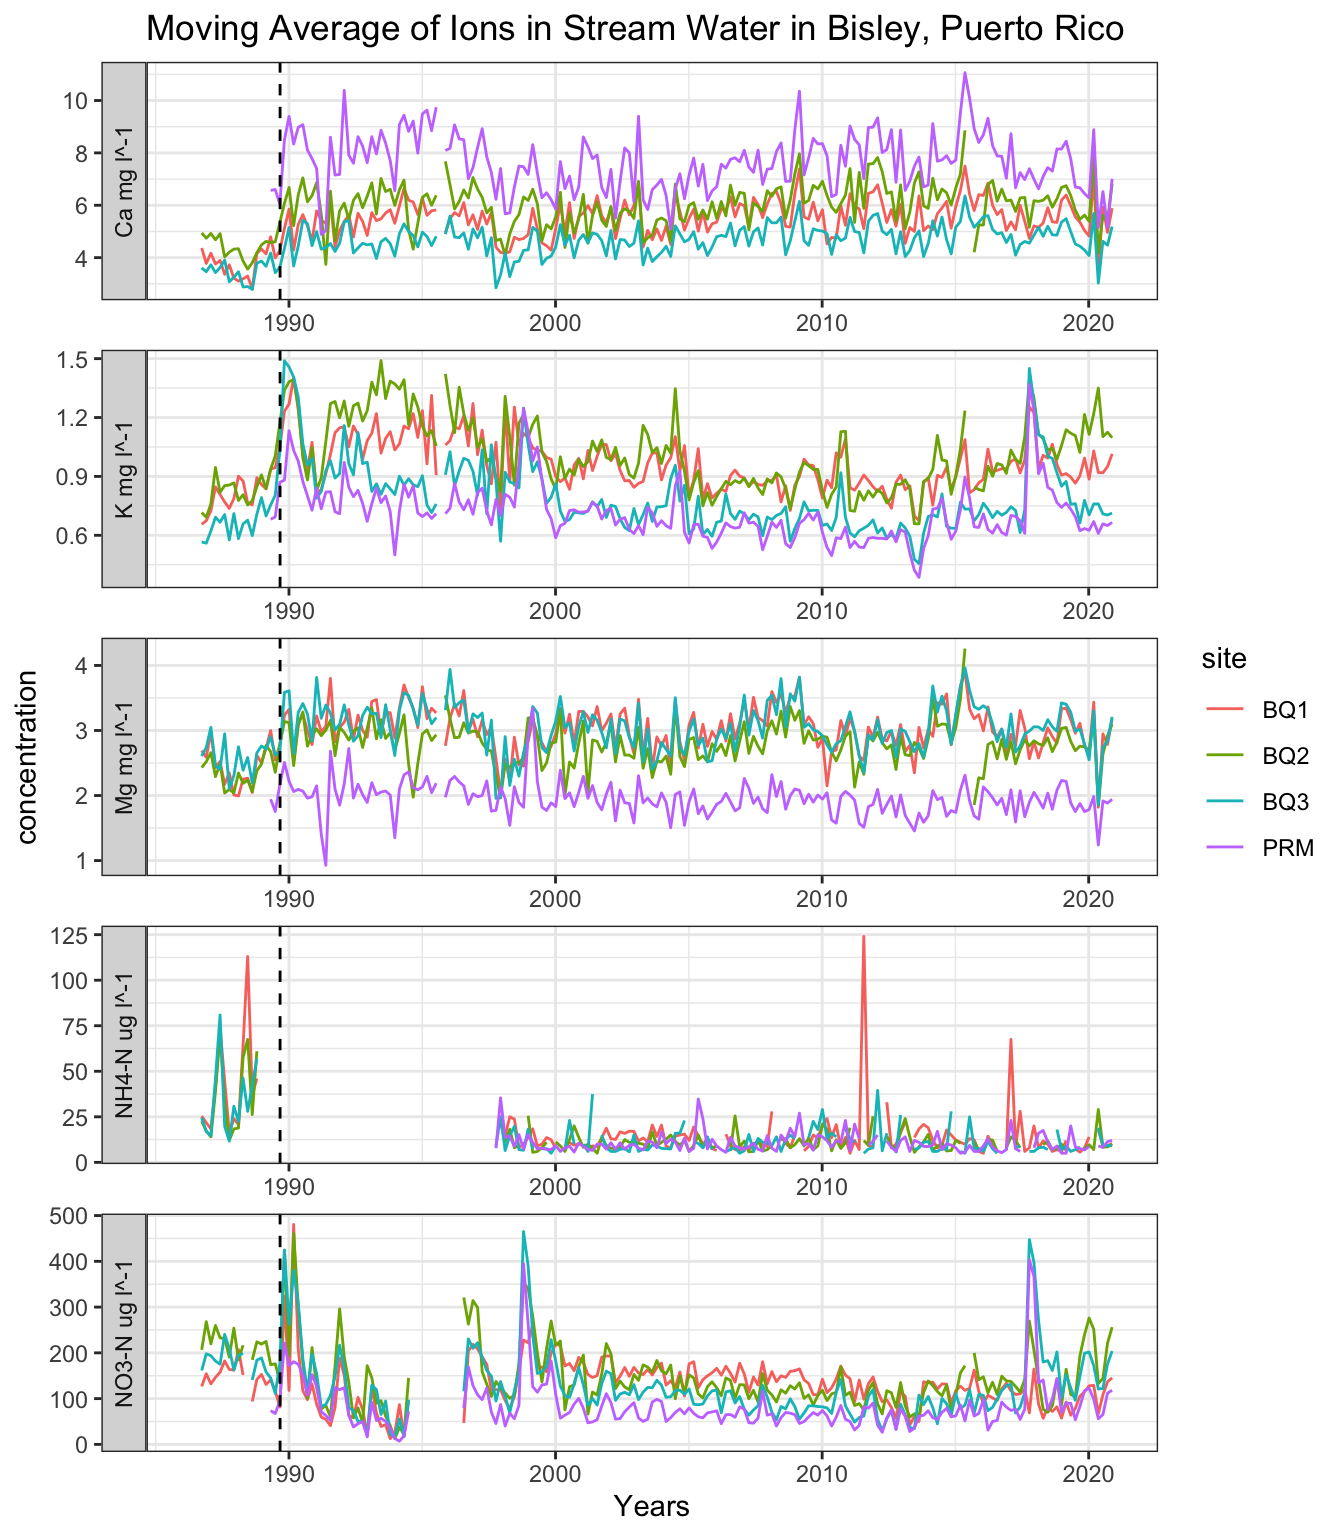
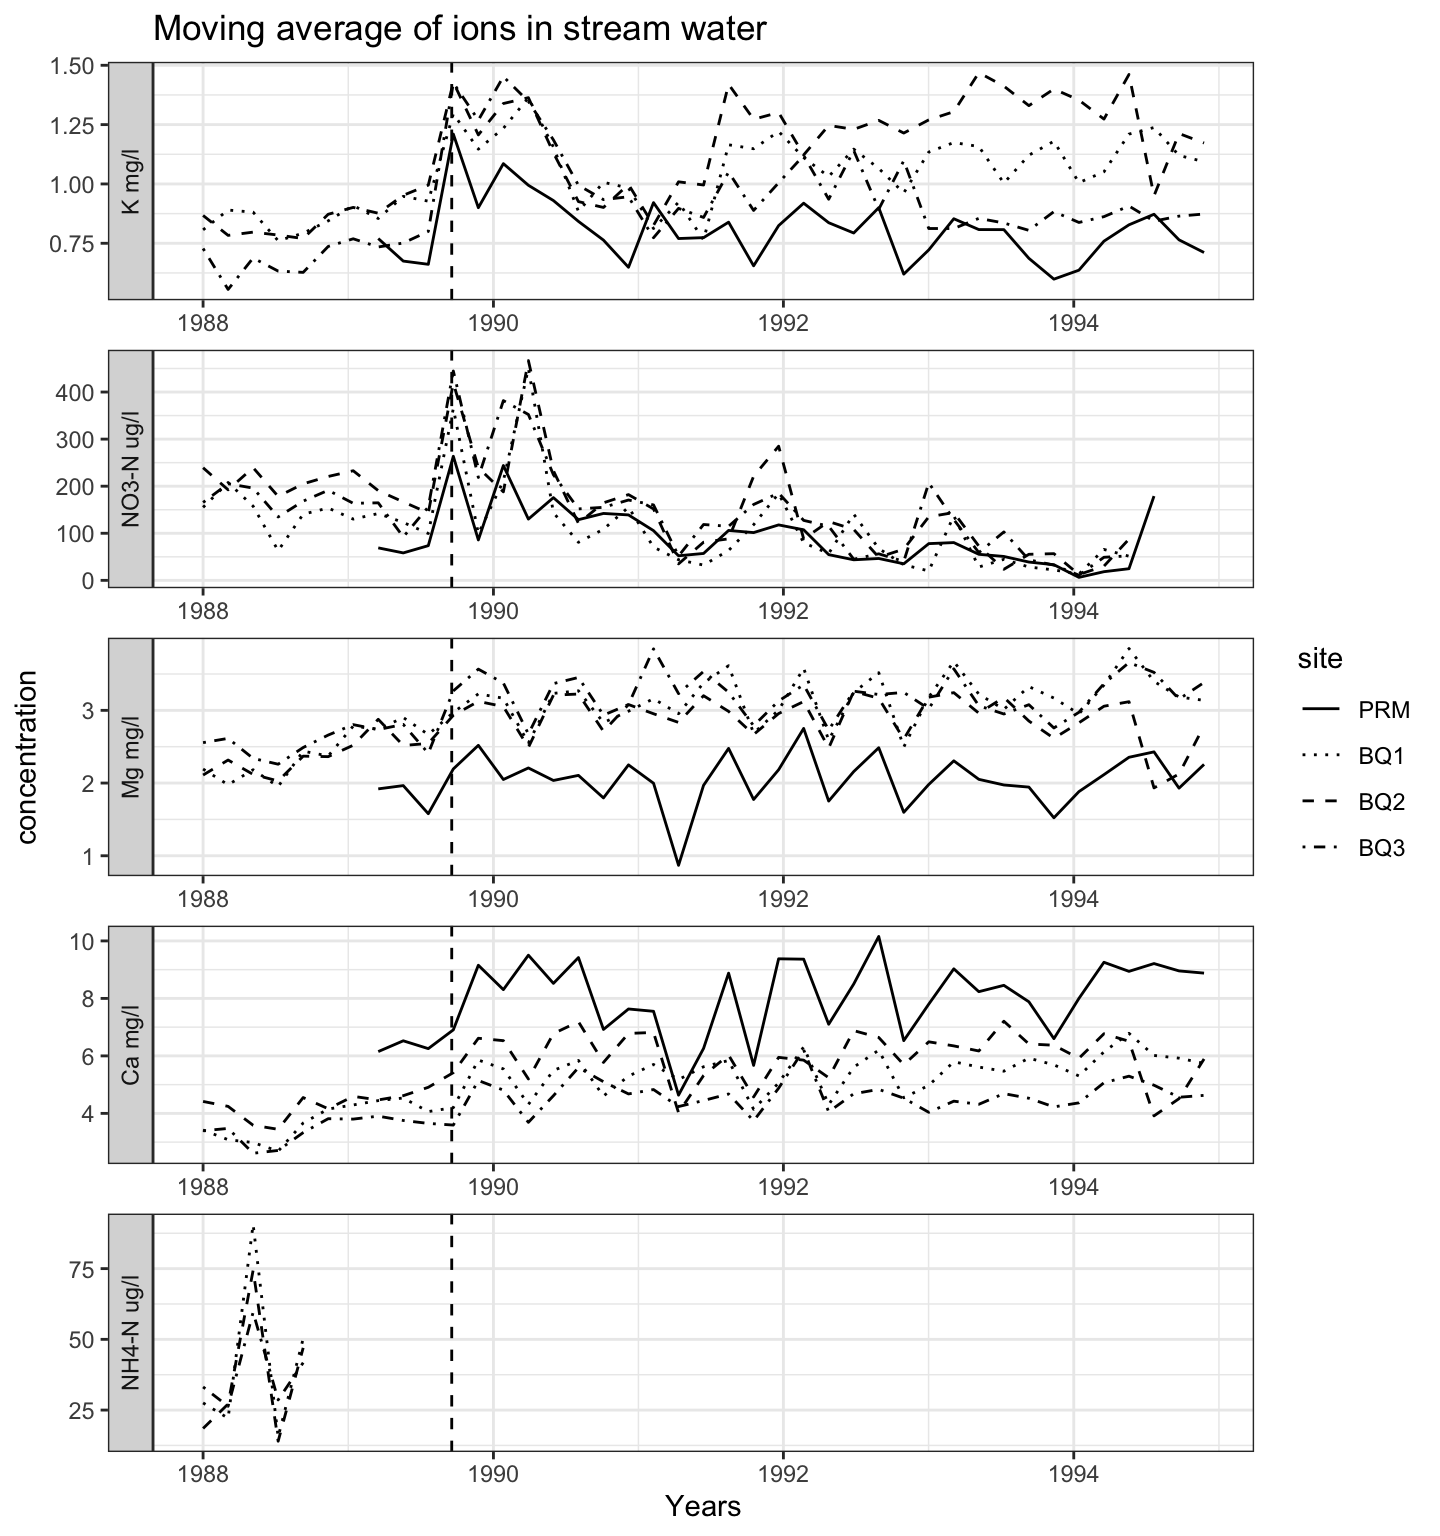
worked on figure aesthetics, fixes #7

diff --git a/docs/paper.html b/docs/paper.html
@@ -26,6 +26,41 @@ ul.task-list li input[type="checkbox"] {
   margin: 0 0.8em 0.2em -1em; /* quarto-specific, see https://github.com/quarto-dev/quarto-cli/issues/4556 */ 
   vertical-align: middle;
 }
+/* CSS for syntax highlighting */
+html { -webkit-text-size-adjust: 100%; }
+pre > code.sourceCode { white-space: pre; position: relative; }
+pre > code.sourceCode > span { display: inline-block; line-height: 1.25; }
+pre > code.sourceCode > span:empty { height: 1.2em; }
+.sourceCode { overflow: visible; }
+code.sourceCode > span { color: inherit; text-decoration: inherit; }
+div.sourceCode { margin: 1em 0; }
+pre.sourceCode { margin: 0; }
+@media screen {
+div.sourceCode { overflow: auto; }
+}
+@media print {
+pre > code.sourceCode { white-space: pre-wrap; }
+pre > code.sourceCode > span { text-indent: -5em; padding-left: 5em; }
+}
+pre.numberSource code
+  { counter-reset: source-line 0; }
+pre.numberSource code > span
+  { position: relative; left: -4em; counter-increment: source-line; }
+pre.numberSource code > span > a:first-child::before
+  { content: counter(source-line);
+    position: relative; left: -1em; text-align: right; vertical-align: baseline;
+    border: none; display: inline-block;
+    -webkit-touch-callout: none; -webkit-user-select: none;
+    -khtml-user-select: none; -moz-user-select: none;
+    -ms-user-select: none; user-select: none;
+    padding: 0 4px; width: 4em;
+  }
+pre.numberSource { margin-left: 3em;  padding-left: 4px; }
+div.sourceCode
+  {   }
+@media screen {
+pre > code.sourceCode > span > a:first-child::before { text-decoration: underline; }
+}
 </style>
 
 
@@ -57,48 +92,82 @@ ul.task-list li input[type="checkbox"] {
 <h1>Hurricane Hugo (1989) impact on Puerto Rico’s Water Quality</h1>
 <section id="background" class="level2">
 <h2 class="anchored" data-anchor-id="background">Background</h2>
-<p>After Hurricane Hugo made impact on Puerto Rico in 1989, Schaefer et al.&nbsp;(<a href="https://doi.org/10.1017/s0266467400001358">2000</a>) studied the long-term stream water quality in Bisley, Puerto Rico.</p>
-<p>This project aims to replicate Figure 3 from Schaefer et al.&nbsp;(<a href="https://doi.org/10.1017/s0266467400001358">2000</a>). We focused on potassium, nitrate, magnesium, calcium, and ammonium at four sites. The four sites are Puente Roto Mameyes (PRM), Quebrada one-Bisley (BQ1), Quebrada two-Bisley (BQ2), and Quebrada three-Bisley (BQ3).</p>
+<p>After Hurricane Hugo made impact on Puerto Rico in 1989, Schaefer et al.&nbsp;(<a href="https://doi.org/10.1017/s0266467400001358">2000</a>) studied the long-term stream water quality in <strong>Bisley, Puerto Rico</strong>.</p>
+<p>This project aims to <strong>replicate Figure 3 from Schaefer et al.&nbsp;(<a href="https://doi.org/10.1017/s0266467400001358">2000</a>)</strong>. We focused on potassium (K), nitrate (NO3-N), magnesium (Mg), calcium (Ca), and ammonium (NH4-N) at four sites. The four sites are Puente Roto Mameyes (PRM), Quebrada one-Bisley (BQ1), Quebrada two-Bisley (BQ2), and Quebrada three-Bisley (BQ3).</p>
 <div class="quarto-figure quarto-figure-center">
 <figure class="figure">
 <p><img src="schaefer_fig3.png" class="img-fluid figure-img"></p>
-<figcaption>ion concentration graph</figcaption>
+<figcaption>Concentration of (a) potassium, (b) nitrate, (c) magnesium, (d) calcium, and (e) ammonium sampled in Bisley, Puerto Rico after Hurricane Hugo according to Schaefer et al.&nbsp;(<a href="https://doi.org/10.1017/s0266467400001358">2000</a>).</figcaption>
 </figure>
 </div>
-<p><em>Concentration of (a) potassium, (b) nitrate, (c) magnesium, (d) calcium, and (e) ammonium sampled in Bisley, Puerto Rico after Hurricane Hugo.</em></p>
 </section>
 <section id="data" class="level2">
 <h2 class="anchored" data-anchor-id="data">Data</h2>
 <p>Data is accessed through the <a href="https://portal.edirepository.org/nis/mapbrowse?packageid=knb-lter-luq.20.4923064">Environmental Data Initiative</a>, by International Institute of Tropical Forestry (IITF), USDA Forest Service.<br>
-We isolated the Site ID, Sample Date, and the concentration of potassium, nitrate, magnesium, calcium, and ammonium from PRM, BQ1, BQ2, and BQ3.</p>
+We extracted the Site ID, Sample Date, and the concentration of potassium, nitrate, magnesium, calcium, and ammonium from Puente Royo Mameyes and Bisley Quebrada 1, 2, and 3.</p>
 </section>
 <section id="methods" class="level2">
 <h2 class="anchored" data-anchor-id="methods">Methods</h2>
-<p>The watersheds in this study were all located in the Rio Mameyes drainage basin within Luquillo Experimental Forest (LEF) in northeastern Puerto Rico.<br>
-From the EDI database, we downloaded the dataset for Puente Royo Mameyes and Bisley Quebrada 1, 2, and 3. When reading in the data, we defined a function that calculated the ion concentration level for a 9-week moving average by site for potassium, calcium, magnesium, ammonium, and nitrate.</p>
+<p>The watersheds in this study were all located in the Rio Mameyes drainage basin within Luquillo Experimental Forest (LEF) in northeastern Puerto Rico.</p>
+<ol type="1">
+<li><p>From the EDI database, we downloaded the dataset for Puente Royo Mameyes and Bisley Quebrada 1, 2, and 3.</p></li>
+<li><p>When reading in the data, we defined a function that calculated the ion concentration level for a 9-week moving average by site for potassium, calcium, magnesium, ammonium, and nitrate from Jan 1, 1988 to Jan 1, 1995. We also had to factor and redefine the levels for the ions to match the order in Figure 3.</p>
+<ul>
+<li>A <em>moving average</em> is taking all the values within a time value (9 weeks in this case) and calculating the average value within that period.</li>
+</ul></li>
+<li><p>With the moving average dataframe, we are then able to plot the 5 ions with a vertical line that indicates the occurence of Hurricane Hugo.</p></li>
+</ol>
 </section>
 <section id="results" class="level2">
 <h2 class="anchored" data-anchor-id="results">Results</h2>
-<p>Following the full dataset from EDI that spans from 1986 to 2020.</p>
+<p>In R, we utilize <code>ggplot()</code> in the R library <code>tidyverse</code> to replicate Figure 3 from Schaefer et al.&nbsp;(<a href="https://doi.org/10.1017/s0266467400001358">2000</a>).<br>
+The code is shown below:</p>
 <div class="cell">
+<div class="code-copy-outer-scaffold"><div class="sourceCode cell-code" id="cb1"><pre class="sourceCode r code-with-copy"><code class="sourceCode r"><span id="cb1-1"><a href="#cb1-1" aria-hidden="true" tabindex="-1"></a><span class="fu">ggplot</span>(</span>
+<span id="cb1-2"><a href="#cb1-2" aria-hidden="true" tabindex="-1"></a>  <span class="at">data =</span> df,</span>
+<span id="cb1-3"><a href="#cb1-3" aria-hidden="true" tabindex="-1"></a>  <span class="at">mapping =</span> <span class="fu">aes</span>(</span>
+<span id="cb1-4"><a href="#cb1-4" aria-hidden="true" tabindex="-1"></a>    <span class="at">x =</span> window_start,</span>
+<span id="cb1-5"><a href="#cb1-5" aria-hidden="true" tabindex="-1"></a>    <span class="at">y =</span> concentration,</span>
+<span id="cb1-6"><a href="#cb1-6" aria-hidden="true" tabindex="-1"></a>    <span class="at">linetype =</span> site</span>
+<span id="cb1-7"><a href="#cb1-7" aria-hidden="true" tabindex="-1"></a>  )</span>
+<span id="cb1-8"><a href="#cb1-8" aria-hidden="true" tabindex="-1"></a>) <span class="sc">+</span></span>
+<span id="cb1-9"><a href="#cb1-9" aria-hidden="true" tabindex="-1"></a>  <span class="fu">geom_line</span>() <span class="sc">+</span></span>
+<span id="cb1-10"><a href="#cb1-10" aria-hidden="true" tabindex="-1"></a>  <span class="fu">labs</span>(</span>
+<span id="cb1-11"><a href="#cb1-11" aria-hidden="true" tabindex="-1"></a>    <span class="at">title =</span> <span class="st">"Moving average of ions in stream water"</span>,</span>
+<span id="cb1-12"><a href="#cb1-12" aria-hidden="true" tabindex="-1"></a>    <span class="at">x =</span> <span class="st">"Years"</span></span>
+<span id="cb1-13"><a href="#cb1-13" aria-hidden="true" tabindex="-1"></a>  ) <span class="sc">+</span></span>
+<span id="cb1-14"><a href="#cb1-14" aria-hidden="true" tabindex="-1"></a>  <span class="fu">facet_wrap</span>(</span>
+<span id="cb1-15"><a href="#cb1-15" aria-hidden="true" tabindex="-1"></a>    <span class="sc">~</span>ions,</span>
+<span id="cb1-16"><a href="#cb1-16" aria-hidden="true" tabindex="-1"></a>    <span class="at">scales =</span> <span class="st">"free"</span>,</span>
+<span id="cb1-17"><a href="#cb1-17" aria-hidden="true" tabindex="-1"></a>    <span class="at">ncol =</span> <span class="dv">1</span>,</span>
+<span id="cb1-18"><a href="#cb1-18" aria-hidden="true" tabindex="-1"></a>    <span class="at">strip.position =</span> <span class="st">"left"</span>,</span>
+<span id="cb1-19"><a href="#cb1-19" aria-hidden="true" tabindex="-1"></a>    <span class="at">labeller =</span> <span class="fu">as_labeller</span>(<span class="fu">c</span>(<span class="at">k_mgl=</span><span class="st">"K mg/l"</span>,</span>
+<span id="cb1-20"><a href="#cb1-20" aria-hidden="true" tabindex="-1"></a>                            <span class="at">ca_mgl=</span><span class="st">"Ca mg/l"</span>,</span>
+<span id="cb1-21"><a href="#cb1-21" aria-hidden="true" tabindex="-1"></a>                            <span class="at">mg_mgl=</span><span class="st">"Mg mg/l"</span>,</span>
+<span id="cb1-22"><a href="#cb1-22" aria-hidden="true" tabindex="-1"></a>                            <span class="at">nh4_ugl=</span><span class="st">"NH4-N ug/l"</span>,</span>
+<span id="cb1-23"><a href="#cb1-23" aria-hidden="true" tabindex="-1"></a>                            <span class="at">no3_ugl=</span><span class="st">"NO3-N ug/l"</span>))</span>
+<span id="cb1-24"><a href="#cb1-24" aria-hidden="true" tabindex="-1"></a>  ) <span class="sc">+</span></span>
+<span id="cb1-25"><a href="#cb1-25" aria-hidden="true" tabindex="-1"></a>  <span class="fu">theme_bw</span>() <span class="sc">+</span></span>
+<span id="cb1-26"><a href="#cb1-26" aria-hidden="true" tabindex="-1"></a>  <span class="fu">geom_vline</span>(<span class="at">xintercept =</span> <span class="fu">ymd</span>(<span class="st">"1989-09-18"</span>), <span class="at">linetype =</span> <span class="st">"dashed"</span>) <span class="sc">+</span></span>
+<span id="cb1-27"><a href="#cb1-27" aria-hidden="true" tabindex="-1"></a>  <span class="fu">scale_linetype_manual</span>(<span class="at">values =</span> <span class="fu">c</span>(<span class="st">"PRM"</span> <span class="ot">=</span> <span class="st">"solid"</span>, <span class="st">"BQ1"</span> <span class="ot">=</span> <span class="st">"dotted"</span>, <span class="st">"BQ2"</span> <span class="ot">=</span> <span class="st">"dashed"</span>, <span class="st">"BQ3"</span> <span class="ot">=</span> <span class="st">"dotdash"</span>))</span></code></pre></div><button title="Copy to Clipboard" class="code-copy-button"><i class="bi"></i></button></div>
 <div class="cell-output-display">
 <div>
 <figure class="figure">
-<p><img src="paper_files/figure-html/unnamed-chunk-2-1.png" class="img-fluid figure-img" width="672"></p>
+<p><img src="paper_files/figure-html/unnamed-chunk-2-1.png" class="img-fluid figure-img" width="720"></p>
 </figure>
 </div>
 </div>
 </div>
-<p>Then, to replicate the figure from Schaefer et al.’s paper, the data is concentrated to 1988 to 1994.</p>
-<div class="cell">
-<div class="cell-output-display">
-<div>
-<figure class="figure">
-<p><img src="paper_files/figure-html/unnamed-chunk-3-1.png" class="img-fluid figure-img" width="672"></p>
-</figure>
-</div>
-</div>
-</div>
+<p><em>Concentration of (a) potassium, (b) nitrate, (c) magnesium, (d) calcium, and (e) ammonium sampled in Bisley, Puerto Rico after Hurricane Hugo based on data from the Environmental Data Initiative.</em></p>
+<p>The data availability from EDI is different from Schaefer et al.&nbsp;(<a href="https://doi.org/10.1017/s0266467400001358">2000</a>). While EDI has more data available for the magnesium readings, the ammonium data collection stopped after mid 1988.<br>
+Aside from the differences in data availability, we were able to successfully replicate Figure 3 from Schaefer et al.&nbsp;(<a href="https://doi.org/10.1017/s0266467400001358">2000</a>). However, the lines from my recreated graph is not as smooth.</p>
+<section id="source" class="level3">
+<h3 class="anchored" data-anchor-id="source">Source</h3>
+<ul>
+<li><strong>Author</strong>: Kelly Loo, <a href="kloo@ucsb.edu">kloo@ucsb.edu</a></li>
+<li><strong>Date Created</strong>: Aug 24, 2027</li>
+</ul>
+</section>
 <section id="references" class="level3">
 <h3 class="anchored" data-anchor-id="references">References</h3>
 <ul>
